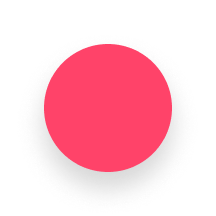
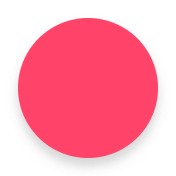
fix marker & mask size

Changed region(s): [[0.0852, 0.0852, 0.9091, 0.9375]]

diff --git a/src/ui/group/group-marker.tsx b/src/ui/group/group-marker.tsx
@@ -9,7 +9,7 @@ import React, { useEffect, useState } from 'react'
 import { Group } from 'infra/types'
 import { useStores } from 'store/globals'
 
-const MARKER_SIDE = PixelRatio.getPixelSizeForLayoutSize(108)
+const MARKER_SIDE = PixelRatio.getPixelSizeForLayoutSize(88)
 const MASK_IMAGE = Image.resolveAssetSource(
   CURRENT_OS === OS.IOS ? GroupMarkerBg.maskInversed : GroupMarkerBg.mask,
 )
@@ -37,12 +37,12 @@ export const GroupMarker: React.FC<{
   const bgImage = isSelected ? GroupMarkerBg.active : GroupMarkerBg.inactive
   return (
     <>
-      <Marker coordinate={coord} image={bgImage} width={108} height={108} />
+      <Marker coordinate={coord} image={bgImage} width={88} height={88} />
       <Marker
         coordinate={coord}
         image={image || bgImage}
-        width={108}
-        height={108}
+        width={88}
+        height={88}
         onClick={() => mapStore.selectGroup(data)}
       />
     </>
